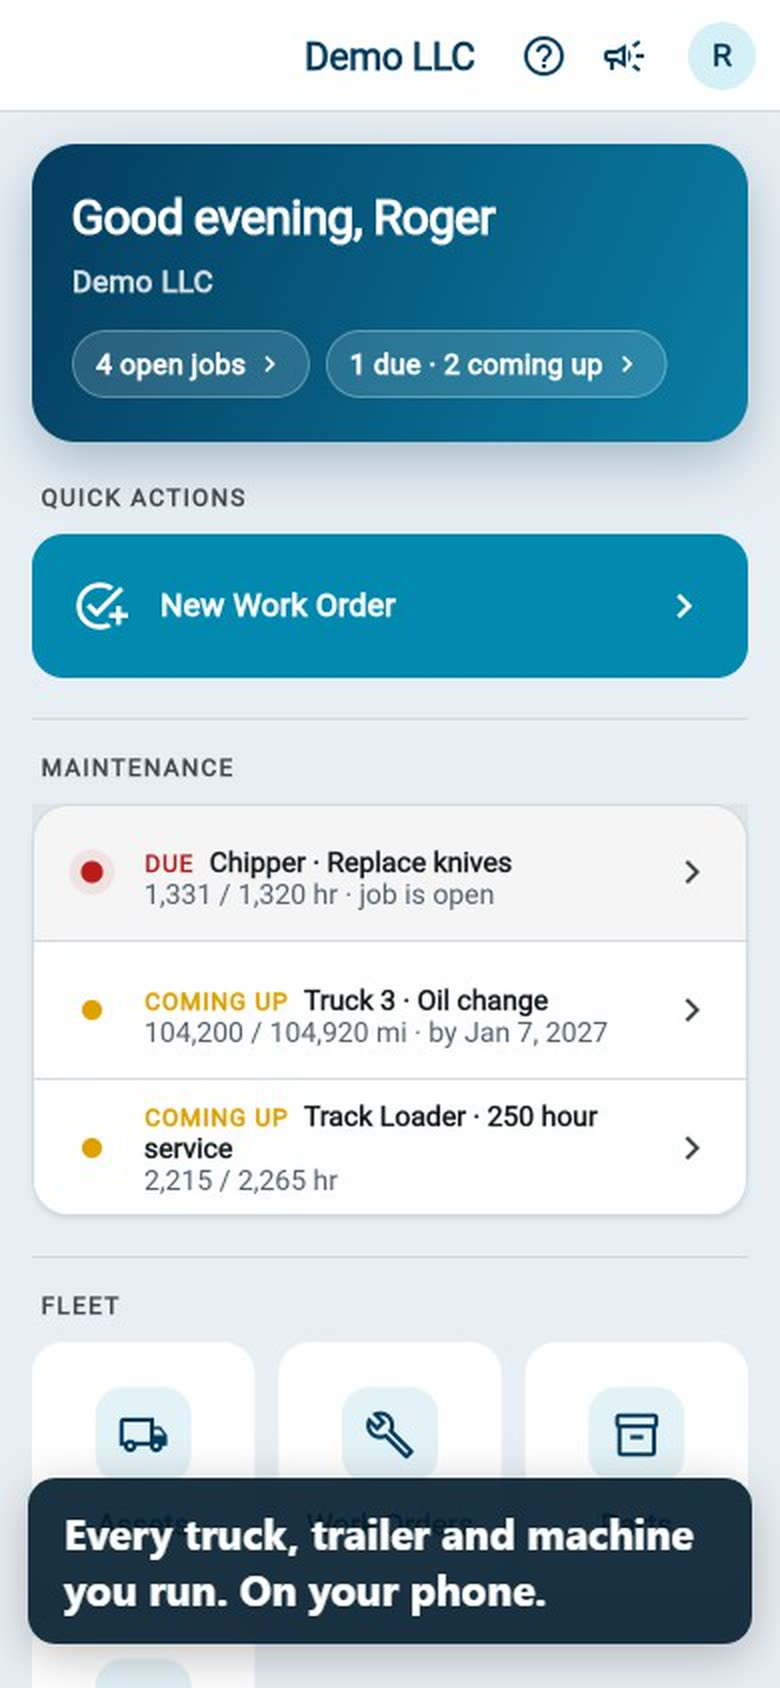
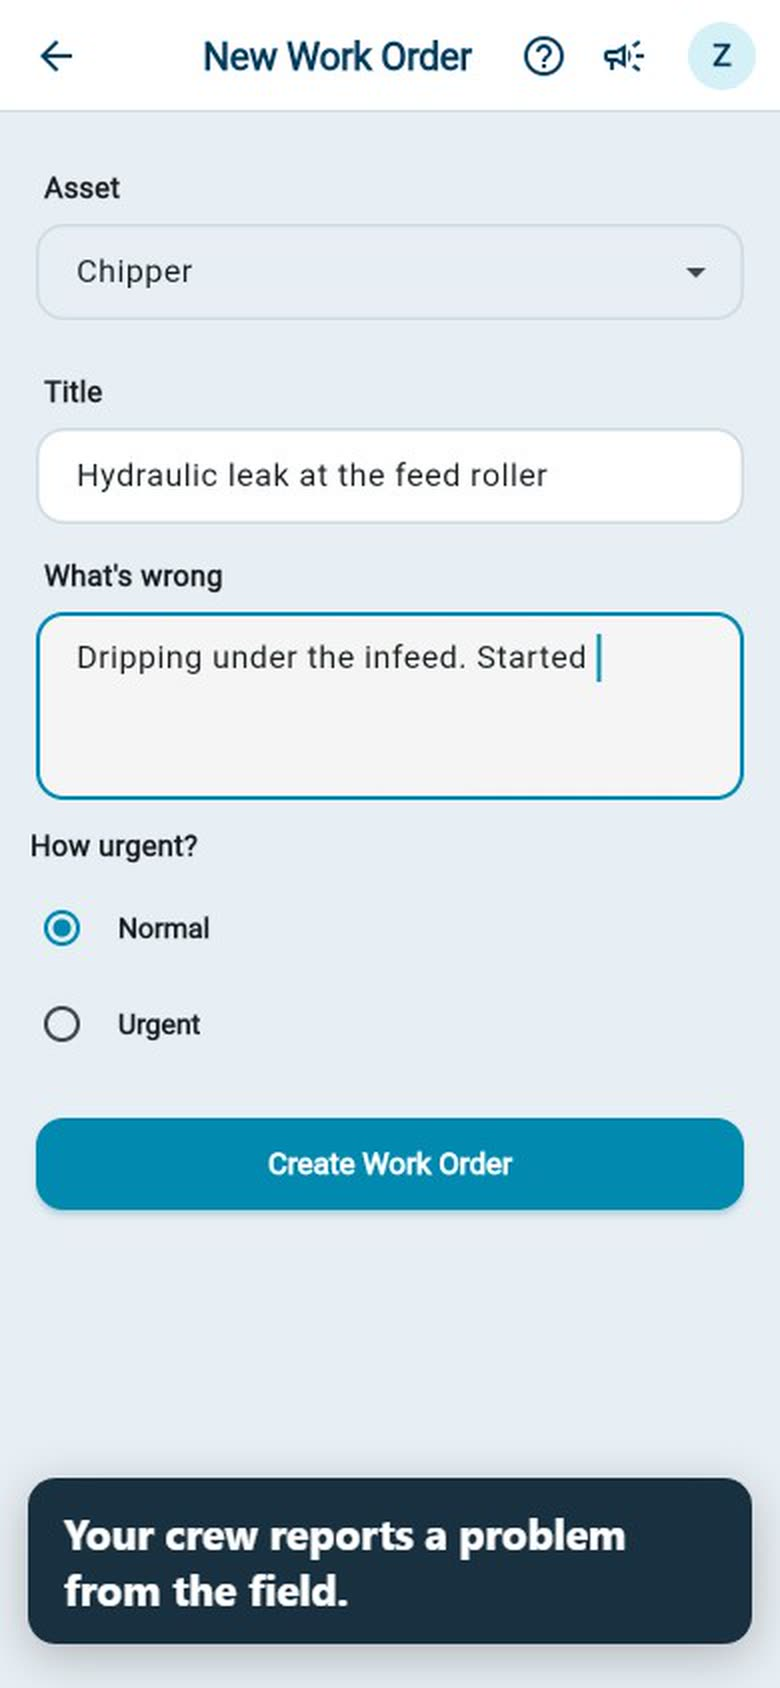
Demo video: reads as a video (cover, pulsing play, 1:36 label, mid-action poster), plays itself when on screen

diff --git a/index.html b/index.html
@@ -66,11 +66,22 @@
     .demo { display: grid; grid-template-columns: 1.1fr .9fr; gap: 48px; align-items: center; }
     /* Same status strip as the other phones (9:41 + notch above the app); the video fits under it. */
     .phone .screen.video-screen video { width: 100%; height: 100%; object-fit: contain; display: block; background: #fff; }
-    .play { position: absolute; left: 50%; top: 50%; transform: translate(-50%, -50%); z-index: 4; border: 0; cursor: pointer;
-      width: 84px; height: 84px; border-radius: 50%; background: rgba(1,159,203,.92); color: #fff; font-size: 30px; padding-left: 6px;
-      box-shadow: 0 14px 30px -8px rgba(1,159,203,.7), 0 0 0 10px rgba(1,159,203,.18); transition: transform .15s; }
-    .play:hover { transform: translate(-50%, -50%) scale(1.06); }
-    .play[hidden] { display: none; }
+    /* Until it plays: dim the frame, big pulsing play button, "Watch the demo · 1:36" so it reads as a video. */
+    .vid-cover { position: absolute; inset: 12px; z-index: 4; border-radius: 36px; border: 0; cursor: pointer; padding: 0;
+      background: linear-gradient(180deg, rgba(5,60,94,.15), rgba(5,60,94,.62)); color: #fff;
+      display: flex; flex-direction: column; align-items: center; justify-content: center; gap: 16px; font: inherit; }
+    .vid-cover[hidden] { display: none; }
+    .vid-cover .ring { width: 92px; height: 92px; border-radius: 50%; background: var(--blue); display: grid; place-items: center;
+      font-size: 34px; padding-left: 7px; box-shadow: 0 14px 30px -8px rgba(1,159,203,.8); animation: pulse 2s ease-out infinite; }
+    .vid-cover .label { font-weight: 800; font-size: 19px; text-shadow: 0 2px 8px rgba(0,0,0,.35); }
+    .vid-cover .label span { font-weight: 600; opacity: .9; }
+    @keyframes pulse { 0% { box-shadow: 0 0 0 0 rgba(1,159,203,.55), 0 14px 30px -8px rgba(1,159,203,.8); }
+      100% { box-shadow: 0 0 0 26px rgba(1,159,203,0), 0 14px 30px -8px rgba(1,159,203,.8); } }
+    .vid-tag { position: absolute; top: -14px; left: 50%; transform: translateX(-50%); z-index: 5; white-space: nowrap;
+      background: #fff; color: var(--navy); border: 1px solid var(--line); border-radius: 999px; padding: 6px 14px;
+      font-size: 13px; font-weight: 800; box-shadow: 0 10px 24px -10px rgba(5,60,94,.4); }
+    .vid-tag .rec { display: inline-block; width: 8px; height: 8px; border-radius: 50%; background: var(--due); margin-right: 7px; vertical-align: 1px; }
+    @media (prefers-reduced-motion: reduce) { .vid-cover .ring { animation: none; } }
     @media (max-width: 900px) { .demo { grid-template-columns: 1fr; gap: 28px; } }
 
     /* phone mockup */
@@ -235,12 +246,11 @@
         <p class="sub">An operator reports a hydraulic leak from the field. The mechanic sees it, pulls the part, closes it out with the hours. The schedule makes the next job by itself, and the owner sees what it all cost.</p>
         <p class="fine">About a minute and a half. No sound needed.</p>
       </div>
-      <div class="phone"><div class="screen video-screen">
-        <video controls playsinline preload="none" poster="video/demo-poster.jpg" aria-label="FleetOptima demo: an operator reports a hydraulic leak on a chipper, the mechanic fixes it and logs the part, maintenance and costs">
+      <div class="phone"><div class="vid-tag"><span class="rec"></span>The real app, real taps</div><div class="screen video-screen">
+        <video controls playsinline muted preload="none" poster="video/demo-poster.jpg" aria-label="FleetOptima demo: an operator reports a hydraulic leak on a chipper, the mechanic fixes it and logs the part, maintenance and costs">
           <source src="video/fleetoptima-demo.mp4" type="video/mp4">
         </video>
-        <button class="play" type="button" aria-label="Play the demo">&#9654;</button>
-      </div></div>
+      </div><button class="vid-cover" type="button" aria-label="Play the demo video"><span class="ring">&#9654;</span><span class="label">Watch the demo <span>· 1:36</span></span></button></div>
     </div>
   </section>
 
@@ -399,13 +409,25 @@
 <div class="mobile-cta"><a class="btn primary" href="https://beta.fleetoptima.org/#/signup">Start free · 14 days</a></div>
 
 <script>
-  // Big play button over the demo video; it hides once the video plays.
+  // Demo video: a cover with a big play button until it plays. It has no sound, so it also starts
+  // by itself (muted) once it's mostly on screen, and pauses when scrolled away; reduced-motion
+  // visitors only get it on a tap.
   (function () {
-    var v = document.querySelector('#demo video'), b = document.querySelector('#demo .play');
-    if (!v || !b) return;
-    b.addEventListener('click', function () { v.play(); });
-    v.addEventListener('play', function () { b.hidden = true; });
-    v.addEventListener('ended', function () { b.hidden = false; });
+    var v = document.querySelector('#demo video'), c = document.querySelector('#demo .vid-cover');
+    if (!v || !c) return;
+    var tapped = false;
+    v.controls = false; // the cover is the control until it plays (no-JS visitors keep the native ones)
+    c.addEventListener('click', function () { tapped = true; v.currentTime = 0; v.play(); });
+    v.addEventListener('play', function () { c.hidden = true; v.controls = true; });
+    v.addEventListener('ended', function () { c.hidden = false; });
+    var calm = window.matchMedia && matchMedia('(prefers-reduced-motion: reduce)').matches;
+    if (calm || !('IntersectionObserver' in window)) return;
+    new IntersectionObserver(function (es) {
+      es.forEach(function (e) {
+        if (e.isIntersecting && v.paused && !v.ended) { var p = v.play(); if (p && p.catch) p.catch(function () {}); }
+        else if (!e.isIntersecting && !tapped && !v.paused) v.pause();
+      });
+    }, { threshold: 0.6 }).observe(v);
   })();
 </script>
 
